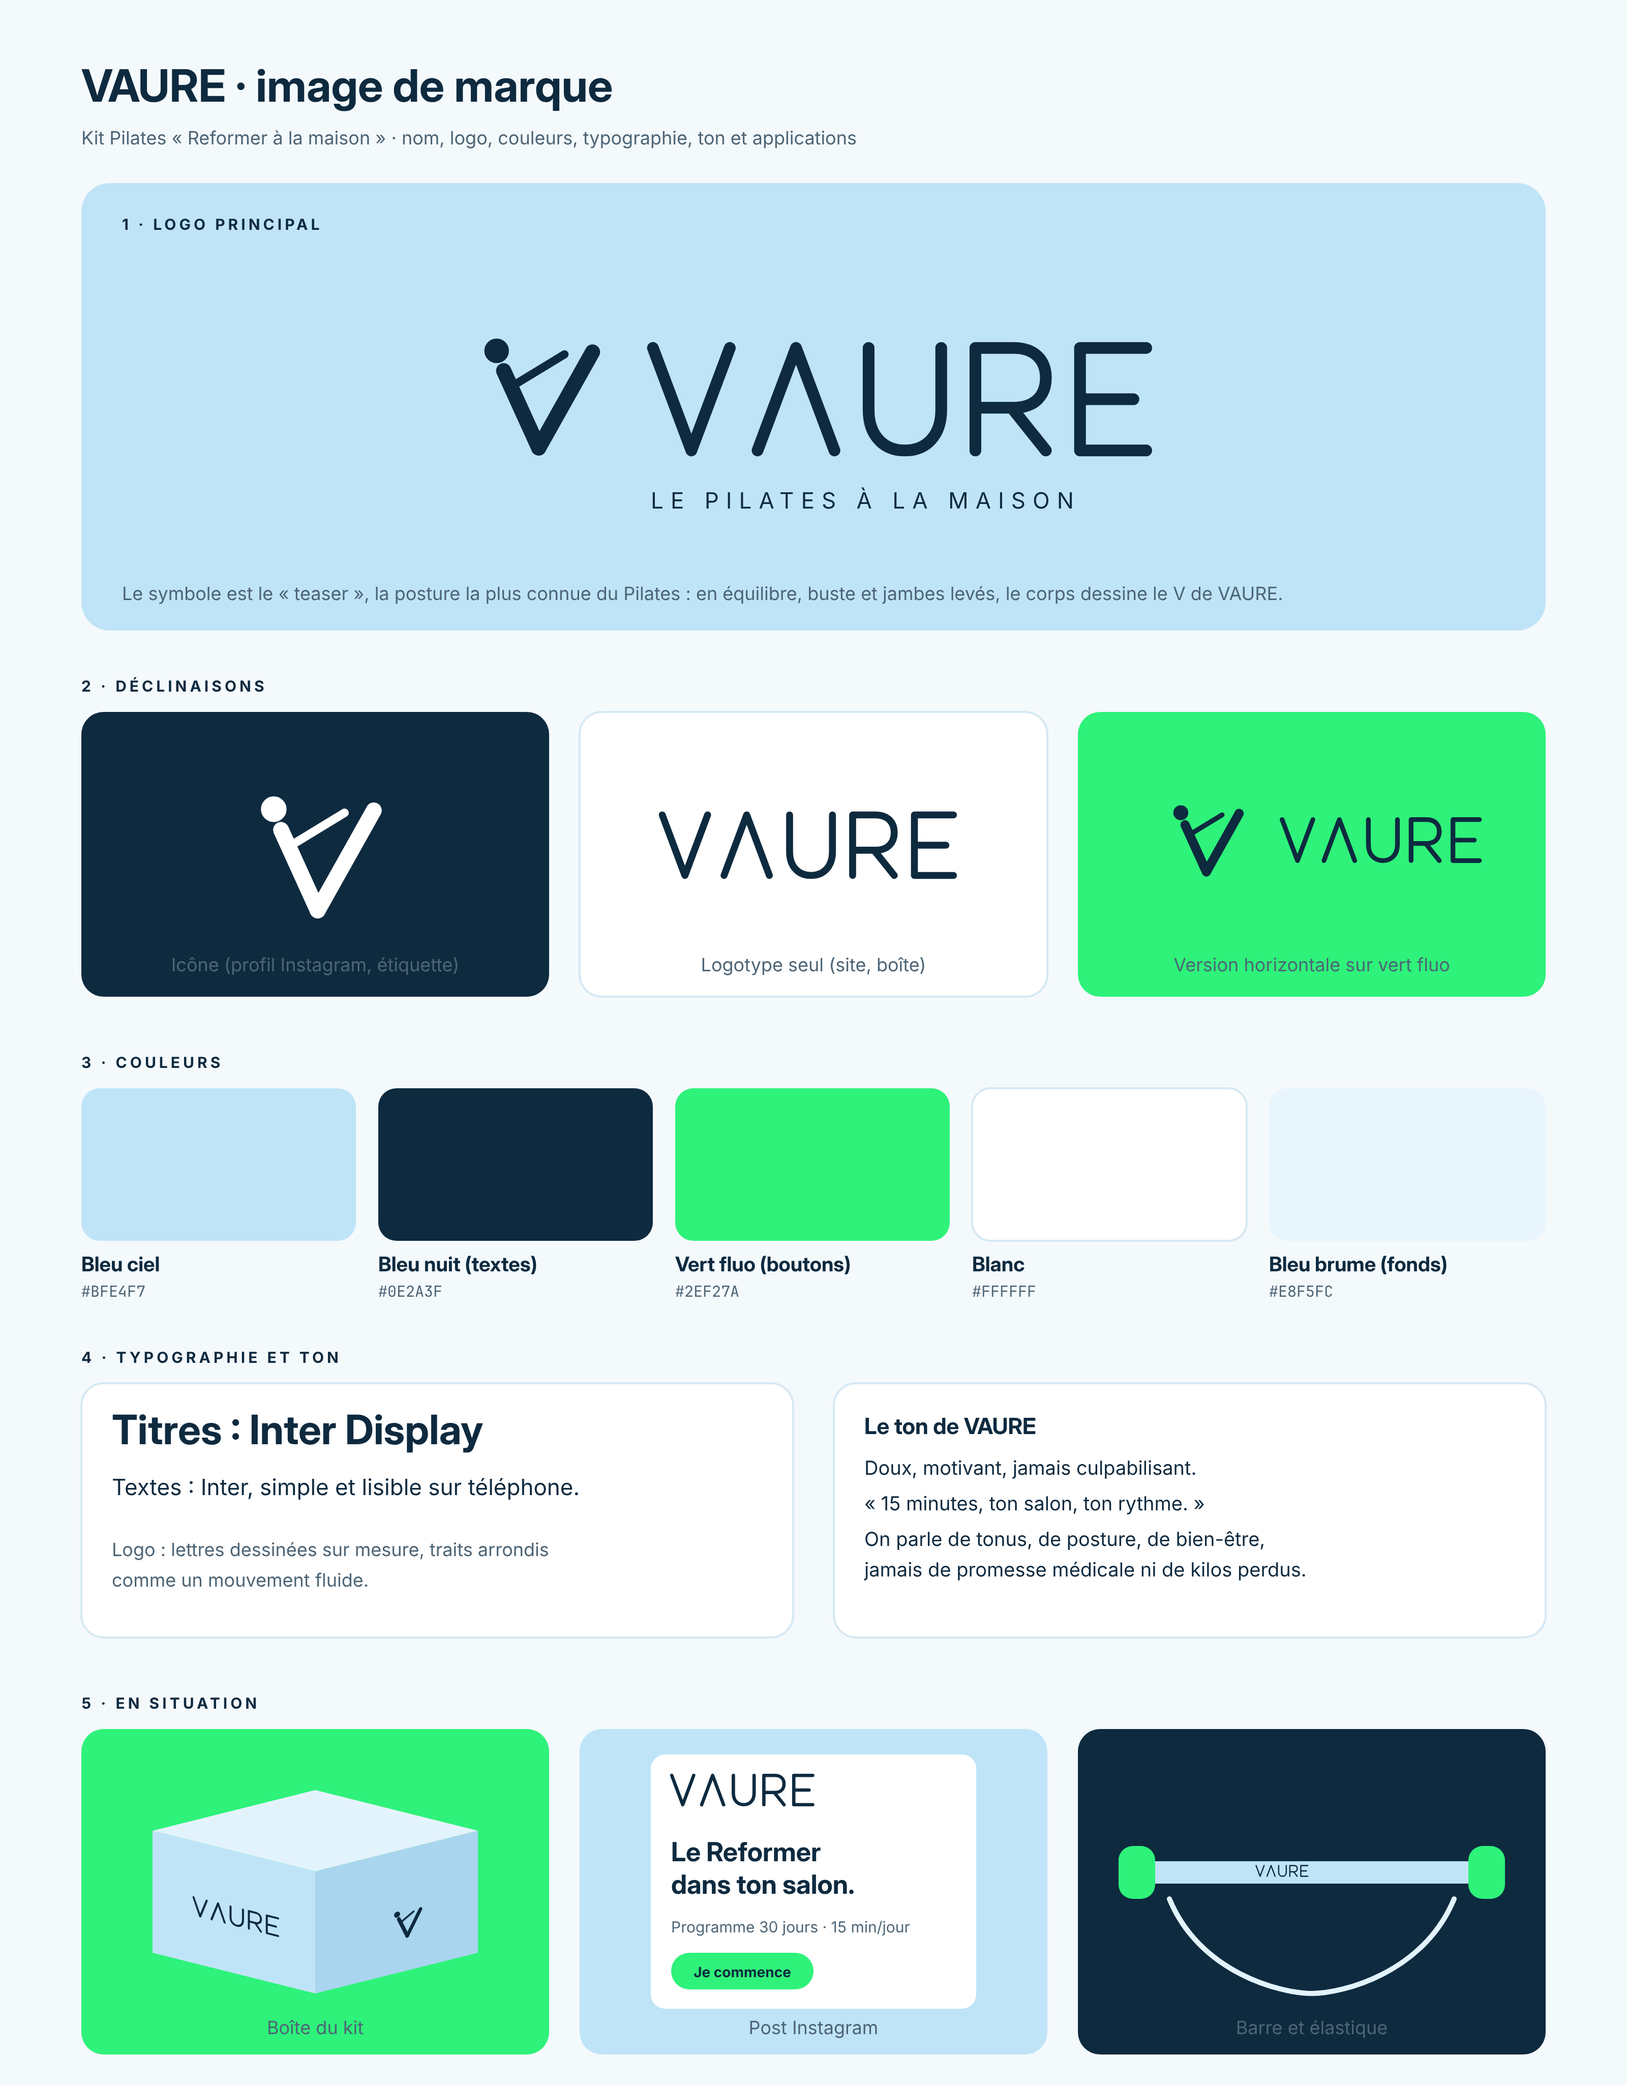
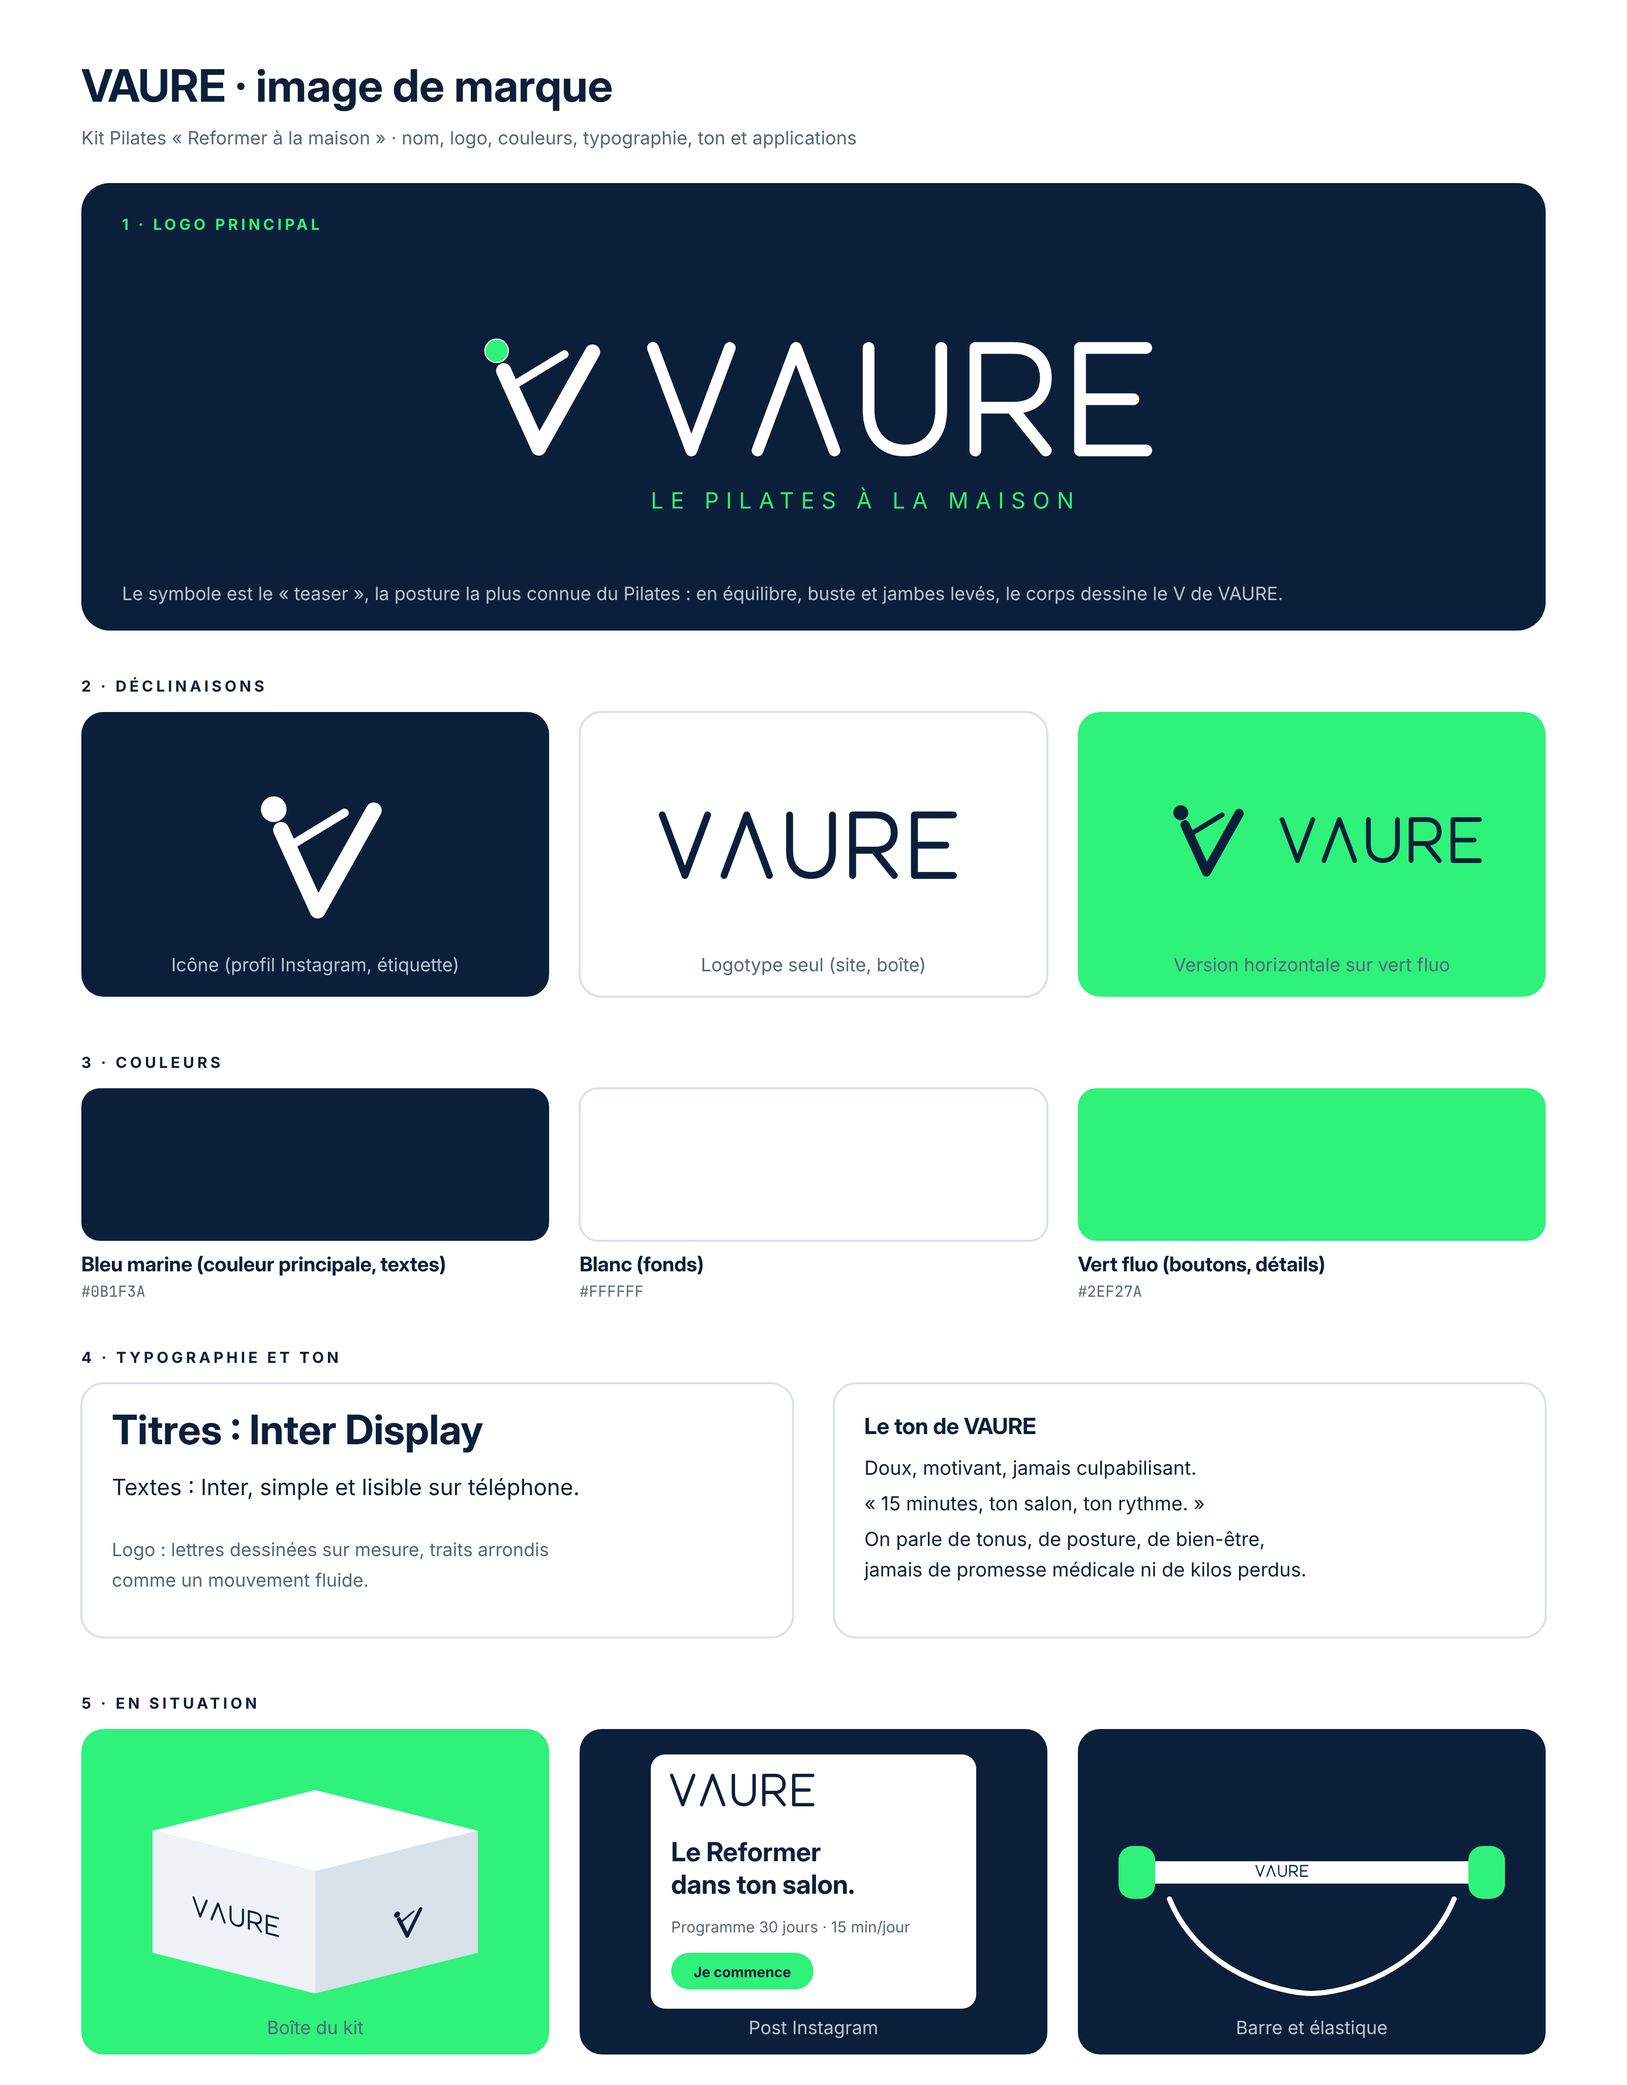
Scutify : VAURE Pilates en bleu marine, blanc et vert fluo
Claude-Session: https://claude.ai/code/session_01N3GcJzoqBz7CtBwAkesLee

diff --git a/scutify/pilates/vaure_pilates_marque.html b/scutify/pilates/vaure_pilates_marque.html
@@ -1,6 +1,6 @@
 <!doctype html>
 <html><head><meta charset="utf-8">
-<style>html,body{margin:0;background:#f4f9fc}body{width:1600px;height:2050px;font-family:'Inter',sans-serif}</style></head>
+<style>html,body{margin:0;background:#ffffff}body{width:1600px;height:2050px;font-family:'Inter',sans-serif}</style></head>
 <body>
 <svg width="1600" height="2050" viewBox="0 0 1600 2050" xmlns="http://www.w3.org/2000/svg">
 <defs>
@@ -21,10 +21,10 @@
     <circle cx="16" cy="13" r="10" class="grip"/>
   </g>
   <style>
-    .t{font-family:'Inter Display','Inter',sans-serif;font-weight:700;fill:#0e2a3f}
-    .s{font-size:18px;fill:#4d6576}
+    .t{font-family:'Inter Display','Inter',sans-serif;font-weight:700;fill:#0b1f3a}
+    .s{font-size:18px;fill:#55657a}
     .lab{font-size:15px;font-weight:700;letter-spacing:3px}
-    .hex{font-size:15px;fill:#4d6576;font-family:'JetBrains Mono',monospace}
+    .hex{font-size:15px;fill:#55657a;font-family:'JetBrains Mono',monospace}
   </style>
 </defs>
 
@@ -32,77 +32,75 @@
 <text x="80" y="142" class="s" font-size="20">Kit Pilates « Reformer à la maison » · nom, logo, couleurs, typographie, ton et applications</text>
 
 <!-- 1. LOGO PRINCIPAL -->
-<rect x="80" y="180" width="1440" height="440" rx="28" fill="#bfe4f7"/>
-<text x="120" y="226" class="lab" fill="#0e2a3f">1 · LOGO PRINCIPAL</text>
-<g transform="translate(470 330)" stroke="#0e2a3f" class="markc"><g style="fill:#0e2a3f"><use href="#mark" transform="scale(1.15)"/></g></g>
-<g transform="translate(640 340) scale(1.05)" stroke="#0e2a3f"><use href="#word"/></g>
-<text x="640" y="500" font-size="22" fill="#0e2a3f" letter-spacing="7" font-family="Inter">LE PILATES À LA MAISON</text>
-<text x="120" y="590" class="s" fill="#2c4a5e">Le symbole est le « teaser », la posture la plus connue du Pilates : en équilibre, buste et jambes levés, le corps dessine le V de VAURE.</text>
+<rect x="80" y="180" width="1440" height="440" rx="28" fill="#0b1f3a"/>
+<text x="120" y="226" class="lab" fill="#2ef27a">1 · LOGO PRINCIPAL</text>
+<g transform="translate(470 330)" stroke="#ffffff" class="markc"><g style="fill:#2ef27a"><use href="#mark" transform="scale(1.15)"/></g></g>
+<g transform="translate(640 340) scale(1.05)" stroke="#ffffff"><use href="#word"/></g>
+<text x="640" y="500" font-size="22" fill="#2ef27a" letter-spacing="7" font-family="Inter">LE PILATES À LA MAISON</text>
+<text x="120" y="590" class="s" style="fill:#b9c6d6">Le symbole est le « teaser », la posture la plus connue du Pilates : en équilibre, buste et jambes levés, le corps dessine le V de VAURE.</text>
 
 <!-- 2. DÉCLINAISONS -->
-<text x="80" y="680" class="lab" fill="#0e2a3f">2 · DÉCLINAISONS</text>
-<rect x="80" y="700" width="460" height="280" rx="22" fill="#0e2a3f"/>
+<text x="80" y="680" class="lab" fill="#0b1f3a">2 · DÉCLINAISONS</text>
+<rect x="80" y="700" width="460" height="280" rx="22" fill="#0b1f3a"/>
 <g transform="translate(250 780)" stroke="#ffffff"><g style="fill:#ffffff"><use href="#mark" transform="scale(1.2)"/></g></g>
-<text x="310" y="955" text-anchor="middle" class="s" fill="#9fc3d8">Icône (profil Instagram, étiquette)</text>
-<rect x="570" y="700" width="460" height="280" rx="22" fill="#ffffff" stroke="#d6e9f3" stroke-width="2"/>
-<g transform="translate(650 800) scale(.62)" stroke="#0e2a3f"><use href="#word"/></g>
+<text x="310" y="955" text-anchor="middle" class="s" style="fill:#b9c6d6">Icône (profil Instagram, étiquette)</text>
+<rect x="570" y="700" width="460" height="280" rx="22" fill="#ffffff" stroke="#d9e1ea" stroke-width="2"/>
+<g transform="translate(650 800) scale(.62)" stroke="#0b1f3a"><use href="#word"/></g>
 <text x="800" y="955" text-anchor="middle" class="s">Logotype seul (site, boîte)</text>
 <rect x="1060" y="700" width="460" height="280" rx="22" fill="#2ef27a"/>
-<g transform="translate(1150 790) scale(.7)" stroke="#0e2a3f"><g style="fill:#0e2a3f"><use href="#mark"/></g></g>
-<g transform="translate(1260 805) scale(.42)" stroke="#0e2a3f"><use href="#word"/></g>
-<text x="1290" y="955" text-anchor="middle" class="s" fill="#0e2a3f">Version horizontale sur vert fluo</text>
+<g transform="translate(1150 790) scale(.7)" stroke="#0b1f3a"><g style="fill:#0b1f3a"><use href="#mark"/></g></g>
+<g transform="translate(1260 805) scale(.42)" stroke="#0b1f3a"><use href="#word"/></g>
+<text x="1290" y="955" text-anchor="middle" class="s" fill="#0b1f3a">Version horizontale sur vert fluo</text>
 
 <!-- 3. COULEURS -->
-<text x="80" y="1050" class="lab" fill="#0e2a3f">3 · COULEURS</text>
+<text x="80" y="1050" class="lab" fill="#0b1f3a">3 · COULEURS</text>
 <g transform="translate(80 1070)">
-  <rect width="270" height="150" rx="18" fill="#bfe4f7"/><text x="0" y="180" class="t" font-size="20">Bleu ciel</text><text x="0" y="205" class="hex">#BFE4F7</text>
-  <rect x="292" width="270" height="150" rx="18" fill="#0e2a3f"/><text x="292" y="180" class="t" font-size="20">Bleu nuit (textes)</text><text x="292" y="205" class="hex">#0E2A3F</text>
-  <rect x="584" width="270" height="150" rx="18" fill="#2ef27a"/><text x="584" y="180" class="t" font-size="20">Vert fluo (boutons)</text><text x="584" y="205" class="hex">#2EF27A</text>
-  <rect x="876" width="270" height="150" rx="18" fill="#ffffff" stroke="#d6e9f3" stroke-width="2"/><text x="876" y="180" class="t" font-size="20">Blanc</text><text x="876" y="205" class="hex">#FFFFFF</text>
-  <rect x="1168" width="272" height="150" rx="18" fill="#e8f5fc"/><text x="1168" y="180" class="t" font-size="20">Bleu brume (fonds)</text><text x="1168" y="205" class="hex">#E8F5FC</text>
+  <rect width="460" height="150" rx="18" fill="#0b1f3a"/><text x="0" y="180" class="t" font-size="20">Bleu marine (couleur principale, textes)</text><text x="0" y="205" class="hex">#0B1F3A</text>
+  <rect x="490" width="460" height="150" rx="18" fill="#ffffff" stroke="#d9e1ea" stroke-width="2"/><text x="490" y="180" class="t" font-size="20">Blanc (fonds)</text><text x="490" y="205" class="hex">#FFFFFF</text>
+  <rect x="980" width="460" height="150" rx="18" fill="#2ef27a"/><text x="980" y="180" class="t" font-size="20">Vert fluo (boutons, détails)</text><text x="980" y="205" class="hex">#2EF27A</text>
 </g>
 
 <!-- 4. TYPO + TON -->
-<text x="80" y="1340" class="lab" fill="#0e2a3f">4 · TYPOGRAPHIE ET TON</text>
-<rect x="80" y="1360" width="700" height="250" rx="22" fill="#fff" stroke="#d6e9f3" stroke-width="2"/>
-<text x="110" y="1420" font-family="'Inter Display',Inter,sans-serif" font-weight="700" font-size="40" fill="#0e2a3f">Titres : Inter Display</text>
-<text x="110" y="1470" font-family="Inter" font-size="22" fill="#0e2a3f">Textes : Inter, simple et lisible sur téléphone.</text>
-<text x="110" y="1530" font-family="Inter" font-size="18" fill="#4d6576">Logo : lettres dessinées sur mesure, traits arrondis</text>
-<text x="110" y="1560" font-family="Inter" font-size="18" fill="#4d6576">comme un mouvement fluide.</text>
-<rect x="820" y="1360" width="700" height="250" rx="22" fill="#fff" stroke="#d6e9f3" stroke-width="2"/>
+<text x="80" y="1340" class="lab" fill="#0b1f3a">4 · TYPOGRAPHIE ET TON</text>
+<rect x="80" y="1360" width="700" height="250" rx="22" fill="#fff" stroke="#d9e1ea" stroke-width="2"/>
+<text x="110" y="1420" font-family="'Inter Display',Inter,sans-serif" font-weight="700" font-size="40" fill="#0b1f3a">Titres : Inter Display</text>
+<text x="110" y="1470" font-family="Inter" font-size="22" fill="#0b1f3a">Textes : Inter, simple et lisible sur téléphone.</text>
+<text x="110" y="1530" font-family="Inter" font-size="18" fill="#55657a">Logo : lettres dessinées sur mesure, traits arrondis</text>
+<text x="110" y="1560" font-family="Inter" font-size="18" fill="#55657a">comme un mouvement fluide.</text>
+<rect x="820" y="1360" width="700" height="250" rx="22" fill="#fff" stroke="#d9e1ea" stroke-width="2"/>
 <text x="850" y="1410" class="t" font-size="22">Le ton de VAURE</text>
-<text x="850" y="1450" font-family="Inter" font-size="19" fill="#0e2a3f">Doux, motivant, jamais culpabilisant.</text>
-<text x="850" y="1485" font-family="Inter" font-size="19" fill="#0e2a3f">« 15 minutes, ton salon, ton rythme. »</text>
-<text x="850" y="1520" font-family="Inter" font-size="19" fill="#0e2a3f">On parle de tonus, de posture, de bien-être,</text>
-<text x="850" y="1550" font-family="Inter" font-size="19" fill="#0e2a3f">jamais de promesse médicale ni de kilos perdus.</text>
+<text x="850" y="1450" font-family="Inter" font-size="19" fill="#0b1f3a">Doux, motivant, jamais culpabilisant.</text>
+<text x="850" y="1485" font-family="Inter" font-size="19" fill="#0b1f3a">« 15 minutes, ton salon, ton rythme. »</text>
+<text x="850" y="1520" font-family="Inter" font-size="19" fill="#0b1f3a">On parle de tonus, de posture, de bien-être,</text>
+<text x="850" y="1550" font-family="Inter" font-size="19" fill="#0b1f3a">jamais de promesse médicale ni de kilos perdus.</text>
 
 <!-- 5. APPLICATIONS -->
-<text x="80" y="1680" class="lab" fill="#0e2a3f">5 · EN SITUATION</text>
+<text x="80" y="1680" class="lab" fill="#0b1f3a">5 · EN SITUATION</text>
 <!-- Boîte du kit -->
 <rect x="80" y="1700" width="460" height="320" rx="22" fill="#2ef27a"/>
 <g transform="translate(150 1760)">
-  <path d="M0 40 L160 0 L320 40 L160 80 Z" fill="#e3f3fc"/>
-  <path d="M0 40 L160 80 V200 L0 160 Z" fill="#bfe4f7"/>
-  <path d="M320 40 L160 80 V200 L320 160 Z" fill="#a9d6ee"/>
-  <g transform="translate(40 105) skewY(14) scale(.18)" stroke="#0e2a3f"><use href="#word"/></g>
-  <g transform="translate(236 120) skewY(-14) scale(.28)" stroke="#0e2a3f"><g style="fill:#0e2a3f"><use href="#mark"/></g></g>
+  <path d="M0 40 L160 0 L320 40 L160 80 Z" fill="#ffffff"/>
+  <path d="M0 40 L160 80 V200 L0 160 Z" fill="#eef2f6"/>
+  <path d="M320 40 L160 80 V200 L320 160 Z" fill="#d9e1ea"/>
+  <g transform="translate(40 105) skewY(14) scale(.18)" stroke="#0b1f3a"><use href="#word"/></g>
+  <g transform="translate(236 120) skewY(-14) scale(.28)" stroke="#0b1f3a"><g style="fill:#0b1f3a"><use href="#mark"/></g></g>
 </g>
-<text x="310" y="2000" text-anchor="middle" class="s" fill="#0e2a3f">Boîte du kit</text>
+<text x="310" y="2000" text-anchor="middle" class="s" fill="#0b1f3a">Boîte du kit</text>
 <!-- Post Instagram -->
-<rect x="570" y="1700" width="460" height="320" rx="22" fill="#bfe4f7"/>
+<rect x="570" y="1700" width="460" height="320" rx="22" fill="#0b1f3a"/>
 <rect x="640" y="1725" width="320" height="250" rx="14" fill="#ffffff"/>
-<g transform="translate(660 1745) scale(.3)" stroke="#0e2a3f"><use href="#word"/></g>
-<text x="660" y="1830" font-family="'Inter Display',Inter" font-weight="700" font-size="26" fill="#0e2a3f">Le Reformer</text>
-<text x="660" y="1862" font-family="'Inter Display',Inter" font-weight="700" font-size="26" fill="#0e2a3f">dans ton salon.</text>
-<text x="660" y="1900" font-family="Inter" font-size="15" fill="#4d6576">Programme 30 jours · 15 min/jour</text>
-<rect x="660" y="1920" width="140" height="36" rx="18" fill="#2ef27a"/><text x="730" y="1944" text-anchor="middle" font-family="Inter" font-weight="700" font-size="14" fill="#0e2a3f">Je commence</text>
-<text x="800" y="2000" text-anchor="middle" class="s" fill="#2c4a5e">Post Instagram</text>
+<g transform="translate(660 1745) scale(.3)" stroke="#0b1f3a"><use href="#word"/></g>
+<text x="660" y="1830" font-family="'Inter Display',Inter" font-weight="700" font-size="26" fill="#0b1f3a">Le Reformer</text>
+<text x="660" y="1862" font-family="'Inter Display',Inter" font-weight="700" font-size="26" fill="#0b1f3a">dans ton salon.</text>
+<text x="660" y="1900" font-family="Inter" font-size="15" fill="#55657a">Programme 30 jours · 15 min/jour</text>
+<rect x="660" y="1920" width="140" height="36" rx="18" fill="#2ef27a"/><text x="730" y="1944" text-anchor="middle" font-family="Inter" font-weight="700" font-size="14" fill="#0b1f3a">Je commence</text>
+<text x="800" y="2000" text-anchor="middle" class="s" style="fill:#b9c6d6">Post Instagram</text>
 <!-- Étiquette barre -->
-<rect x="1060" y="1700" width="460" height="320" rx="22" fill="#0e2a3f"/>
-<rect x="1110" y="1830" width="360" height="22" rx="11" fill="#bfe4f7"/>
+<rect x="1060" y="1700" width="460" height="320" rx="22" fill="#0b1f3a"/>
+<rect x="1110" y="1830" width="360" height="22" rx="11" fill="#ffffff"/>
 <rect x="1100" y="1815" width="36" height="52" rx="14" fill="#2ef27a"/><rect x="1444" y="1815" width="36" height="52" rx="14" fill="#2ef27a"/>
-<g transform="translate(1235 1834) scale(.11)" stroke="#0e2a3f"><use href="#word"/></g>
-<path d="M1150 1867 C1180 1940 1260 1960 1290 1960 C1320 1960 1400 1940 1430 1867" fill="none" stroke="#e3f3fc" stroke-width="5" stroke-linecap="round"/>
-<text x="1290" y="2000" text-anchor="middle" class="s" fill="#9fc3d8">Barre et élastique</text>
+<g transform="translate(1235 1834) scale(.11)" stroke="#0b1f3a"><use href="#word"/></g>
+<path d="M1150 1867 C1180 1940 1260 1960 1290 1960 C1320 1960 1400 1940 1430 1867" fill="none" stroke="#ffffff" stroke-width="5" stroke-linecap="round"/>
+<text x="1290" y="2000" text-anchor="middle" class="s" style="fill:#b9c6d6">Barre et élastique</text>
 </svg>
 </body></html>

diff --git a/scutify/REPRISE_CLAUDE_CODE.md b/scutify/REPRISE_CLAUDE_CODE.md
@@ -421,3 +421,5 @@ Symbole = anneau de Pilates en forme de G ; couleurs rose poudré, prune, sauge,
 ## Étape — Couleurs GALBE changées (Jairo) : bleu ciel #BFE4F7, bleu nuit #0E2A3F, vert fluo #2EF27A, blanc, bleu brume #E8F5FC. Ancienne version rose : pilates/galbe_marque_v1_rose.*
 
 ## Étape — Marque du kit Pilates renommée VAURE (Jairo) : symbole « teaser » en V, couleurs bleu ciel / bleu nuit / vert fluo. pilates/vaure_pilates_marque.png. GALBE gardé en archive.
+
+## Étape — Couleurs VAURE Pilates : bleu marine #0B1F3A, blanc, vert fluo #2EF27A (bleu ciel retiré). Version précédente : pilates/vaure_pilates_marque_v1_ciel.png
